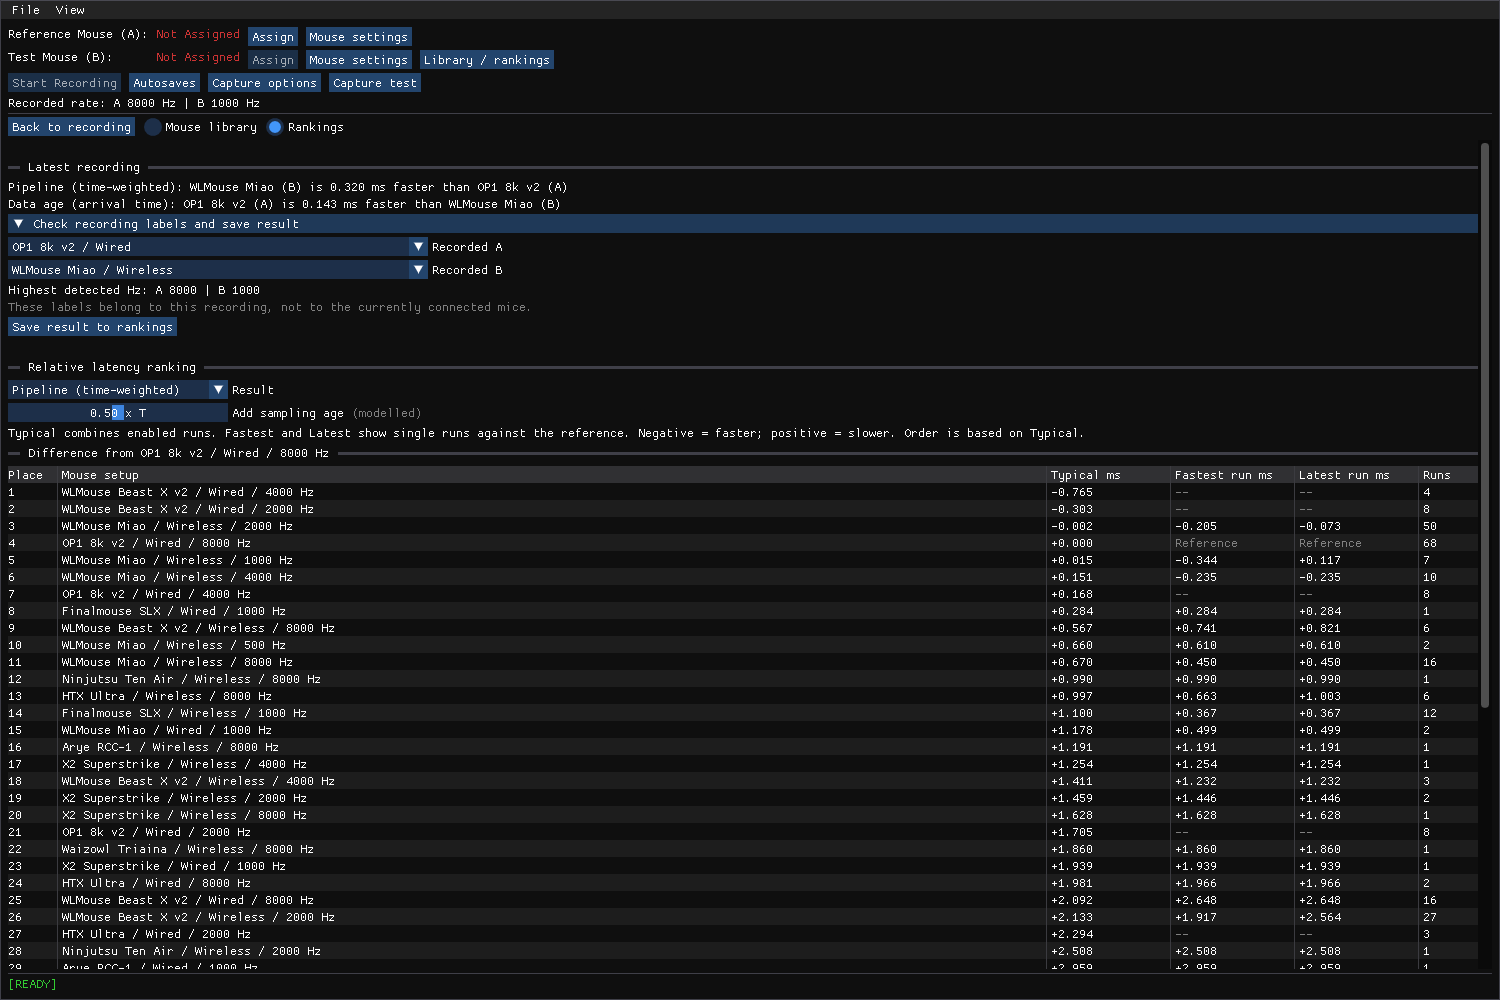
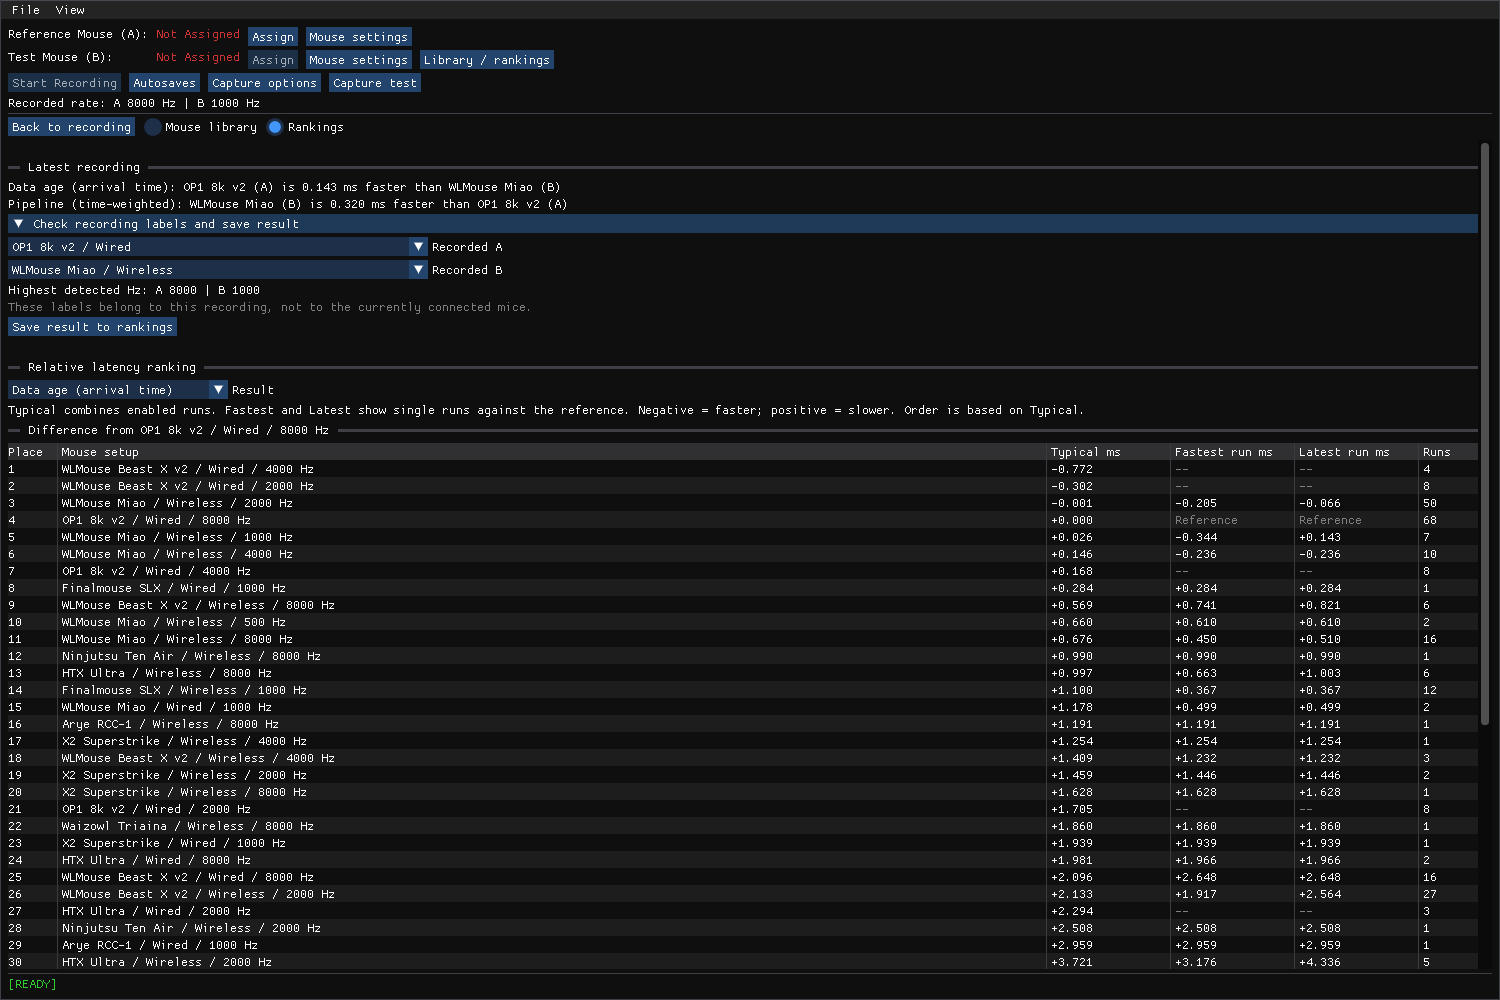
Lead the README with data age and refresh screenshots
Claude-Session: https://claude.ai/code/session_01QaEkYZySaz2Bqt4AiMZMCE

diff --git a/README.md b/README.md
@@ -11,7 +11,7 @@ Move both mice together. RLA records every report from each mouse with a high-re
 ## Highlights
 
 - **Two mice, one recording.** Both mice share the same clock, so there is no external reference to calibrate.
-- **Two results per run.** **Pipeline** compares the delay after each mouse samples its motion. **Data age** also includes how old the data already is when it arrives, which depends on the polling rate. [Read more](#pipeline-and-data-age).
+- **Data age: when the movement reaches the PC.** The main result includes everything from the hand's motion to the application: sensor, firmware, link, Windows, and the sampling delay of the polling rate. **Pipeline** is the same without the sampling delay. [Read more](#data-age-and-pipeline).
 - **Checks before results.** Matching minima, maxima, and slope points must agree in shape and direction over at least three movement cycles. Pauses, independent movement, and conflicting estimates are rejected.
 - **Mouse library.** Name each physical mouse, keep wired and wireless setups apart, and rank all mice against a reference. The polling rate is detected from each recording.
 - **Portable.** One executable. No installer, no runtime, no driver.
@@ -36,11 +36,11 @@ The [installation guide](docs/INSTALL.md) covers updates, saved files, and troub
 3. It finds the same features in both curves: minima, maxima, and the 50 % points on each slope. A feature counts only if the shape and direction around it match.
 4. Each matched cycle votes once. **B−A** is the median, and **Spread** is how much the matched points vary.
 
-![RLA after Analyze latency: both curves, the Pipeline and Data age results, and the matched features.](docs/images/movement.png)
+![RLA after Analyze latency: both curves, the Data age and Pipeline results, and the matched features.](docs/images/movement.png)
 
-*A real recording: OP1 8k v2 (A, wired, 8000 Hz) and WLMouse Miao (B, wireless, 1000 Hz). Pipeline: the Miao is 0.32 ms faster. Data age: the OP1 is 0.14 ms faster, because the Miao's 1 ms report interval adds about (1 − 0.125) / 2 = 0.44 ms of sampling age.*
+*A real recording: OP1 8k v2 (A, wired, 8000 Hz) and WLMouse Miao (B, wireless, 1000 Hz). Data age: the OP1 is 0.14 ms faster. Pipeline: the Miao is 0.32 ms faster; it loses in Data age because its 1 ms report interval adds about (1 − 0.125) / 2 = 0.44 ms of sampling age.*
 
-## Pipeline and data age
+## Data age and pipeline
 
 A mouse sends one report per polling interval T. Each report holds the motion of the whole interval before it. On average, that motion is T/2 old when the report is sent.
 
@@ -48,8 +48,8 @@ A mouse sends one report per polling interval T. Each report holds the motion of
 
 | Result | What it measures | Use it for |
 | --- | --- | --- |
-| **Pipeline (time-weighted)** | Delay after sampling: sensor, firmware, link, and Windows. The counts of each report are spread over its interval, which removes the sampling age. | Comparing the hardware and firmware path, independent of the polling rate |
-| **Data age (arrival time)** | Pipeline plus the mean sampling age, T/2. The counts stay at the time they arrive. | What the PC, and therefore the cursor, actually receives |
+| **Data age (arrival time)**, default | When the movement reaches the PC: Pipeline plus the mean sampling age T/2. The counts stay at the time they arrive. | Which mouse moves the cursor sooner |
+| **Pipeline (time-weighted)** | Delay after sampling: sensor, firmware, link, and Windows. The counts of each report are spread over its interval, which removes the sampling age. | Is a difference caused by the polling rate, or by the sensor, firmware, or link? |
 
 For B-A: **Data age = Pipeline + (T_B - T_A) / 2**.
 
@@ -57,7 +57,7 @@ For B-A: **Data age = Pipeline + (T_B - T_A) / 2**.
 | --- | --- | --- | --- | --- | --- | --- | --- |
 | Mean sampling age T/2 | 4 ms | 2 ms | 1 ms | 0.5 ms | 0.25 ms | 0.125 ms | 0.0625 ms |
 
-Example: A at 8000 Hz, B at 500 Hz. If both have the same pipeline delay, Pipeline shows about 0 ms, and Data age shows B about (2 - 0.125) / 2 = 0.94 ms later. The regression checks verify this relation with synthetic recordings at 500 to 8000 Hz to within 0.01 ms.
+Example: A at 8000 Hz, B at 500 Hz. If both have the same pipeline delay, Pipeline shows about 0 ms, and Data age shows B about (2 - 0.125) / 2 = 0.94 ms later. The regression checks verify this relation with synthetic recordings at 500 to 8000 Hz to within 0.01 ms. In 32 real recordings with both results, measured Data age minus Pipeline matched (T_B - T_A) / 2 with a median deviation of 0.017 ms.
 
 ## Library and rankings
 
@@ -65,10 +65,10 @@ Example: A at 8000 Hz, B at 500 Hz. If both have the same pipeline delay, Pipeli
 
 Use one name for each physical mouse and link its wired and wireless connections to it. Each connection and detected polling rate gets its own ranking entry; DPI does not. Add setup notes to compare other settings separately.
 
-![Rankings: both results of the latest recording, the Result selector, the Add sampling age slider, and the ranking against a reference.](docs/images/rankings.png)
+![Rankings: both results of the latest recording, the Result selector, and the Data age ranking against a reference.](docs/images/rankings.png)
 
-- **Result:** choose **Pipeline** (default) or **Data age**. They are ranked separately.
-- **Add sampling age:** in the Pipeline view, adds f × T per setup. It starts at **0.5**, the mean sampling age, so slower polling rates count against a mouse by default. 0 shows the pure pipeline delay, 1 the age of the oldest sample in a report. It is computed from the detected Hz, not measured; **Data age** is the measured counterpart.
+- **Result:** **Data age** (default) or **Pipeline**. They are ranked separately.
+- Recordings saved before Data age existed get a calculated Data age: their Pipeline result + (T_B - T_A) / 2 from the detected Hz. **Saved runs** marks these as *calc.*; opening and analyzing a run measures it.
 - **Typical** combines all enabled runs and sets the order. **Fastest run** and **Latest run** are single runs against the named reference. Click one to open its recording.
 
 **Negative means faster, positive means slower.** Separate tables appear only when no comparison connects their mice. The screenshots show real results from one library, not a general ranking of these mice.

diff --git a/docs/TECHNICAL.md b/docs/TECHNICAL.md
@@ -46,7 +46,7 @@ During recording, RLA keeps the highest detected standard rate: 125, 250, 500, 1
 
 Accepted recordings are kept in `%LOCALAPPDATA%\RLA\Runs`. Profiles, device links, and results are stored in `%LOCALAPPDATA%\RLA\mice.json`. **Most stable** marks the smallest spread, not the lowest latency. Reanalysis replaces the result for the same recording and method.
 
-**Result** above the ranking selects **Pipeline (time-weighted)** or **Data age (arrival time)**; Pipeline is the default. Rankings, fastest and latest runs, and the **Saved runs** table use only the selected result. Data age is saved under its own method id (5), so existing pipeline results (ids 0 to 4) keep their values. Saving or re-analysing a recording, including an opened saved run, stores both results. Runs saved before this change have no Data age result until they are opened and analyzed again. In the Pipeline view, **Add sampling age** adds f x T to each setup (T = 1000 / detected Hz) and re-sorts the table. It starts at 0.5, the modelled mean data age; 0 shows the pure pipeline delay, 1 the age of the oldest sample in a report. This is computed from Hz, not measured; the Data age result is the measured counterpart. Earlier RLA versions do not know method 5 and refuse to load a library that contains it. Delete buttons remove mice, setups, or results after confirmation. Deleting a mouse also removes its setups and related results. Recording files and autosaves remain. A second RLA instance can view the library but cannot change it.
+**Result** above the ranking selects **Data age (arrival time)**, the default, or **Pipeline (time-weighted)**. Rankings, fastest and latest runs, and the **Saved runs** table use only the selected result. Data age is saved under its own method id (5), so existing pipeline results (ids 0 to 4) keep their values. Saving or re-analysing a recording, including an opened saved run, stores both results. A recording without a measured Data age, for example one saved before Data age existed, gets a calculated one: its newest pipeline result plus (T_B - T_A)/2, with T = 1000 / detected Hz of each setup. **Saved runs** marks it *Data age calc.*; its Use box is the pipeline result's box, and it has no Delete button of its own. An excluded measured Data age is not replaced by a calculated one. In 32 recordings with both results, the measured Data age minus Pipeline matched (T_B - T_A)/2 with a median deviation of 0.017 ms (largest 0.13 ms). Earlier RLA versions do not know method 5 and refuse to load a library that contains it. Delete buttons remove mice, setups, or results after confirmation. Deleting a mouse also removes its setups and related results. Recording files and autosaves remain. A second RLA instance can view the library but cannot change it.
 
 ## Plot and capture details
 
